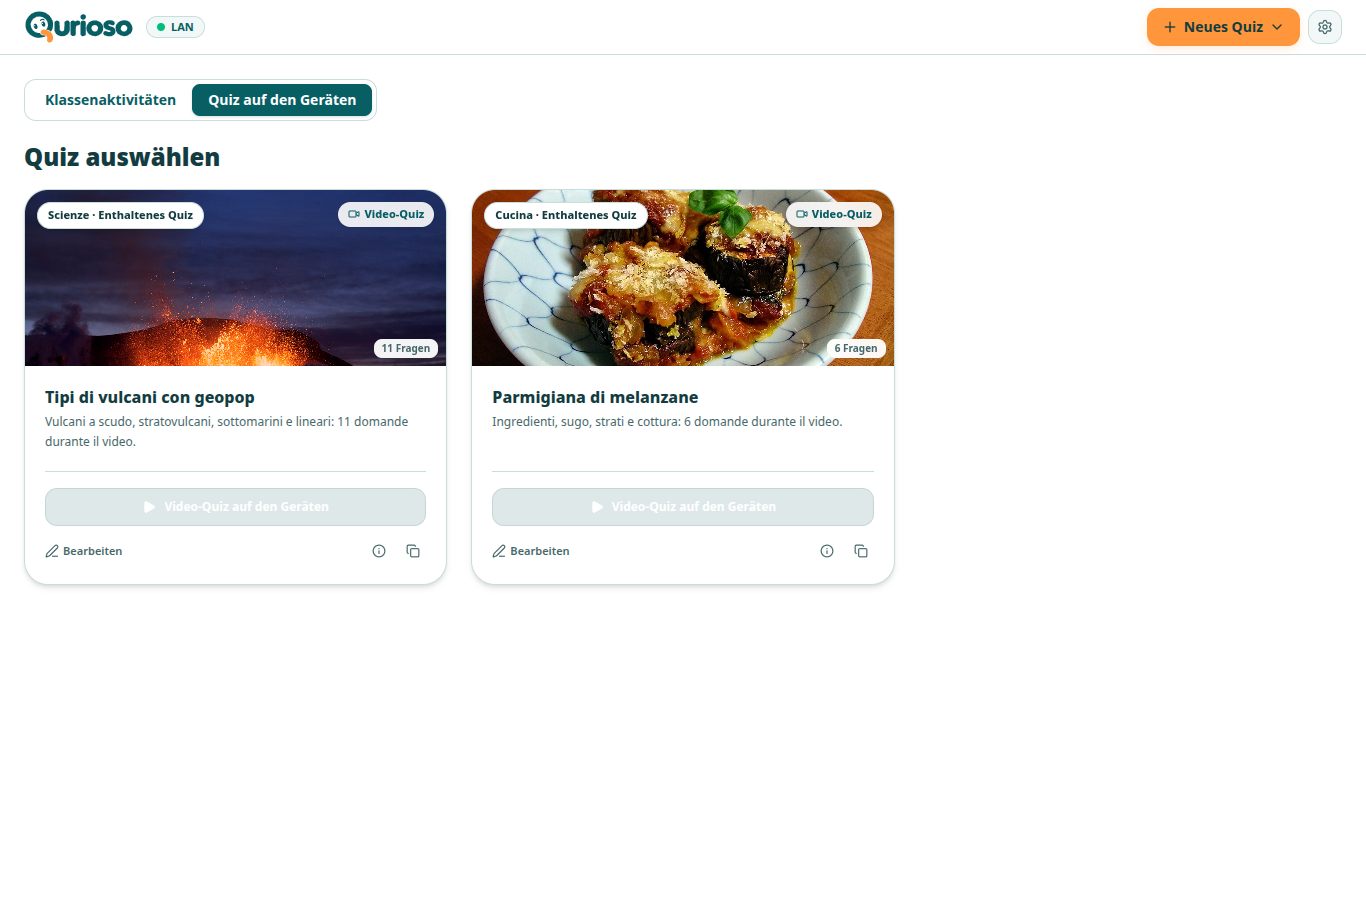
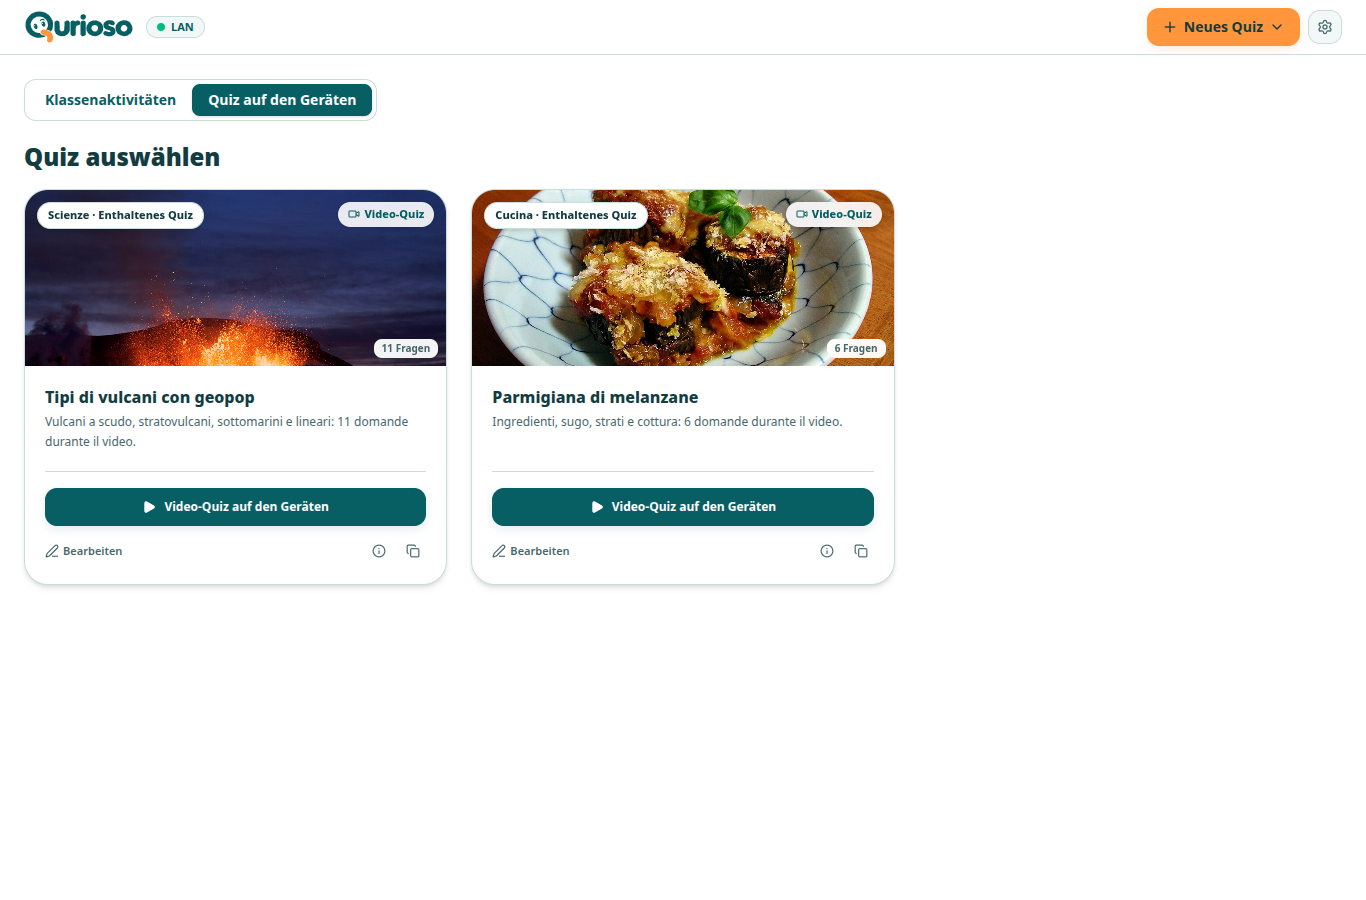
Capture guide screenshots without CSS transitions and drop a wrong known limit
A hidden window does not advance transitions, so the editor screenshot showed
Save in its first grey frame and suggested it was disabled. Saving a YouTube or
Vimeo quiz never waited for the video duration; a test now covers a provider
that never reports it.

Changed region(s): [[0.3382, 0.5289, 0.6457, 0.5911], [0.0307, 0.5289, 0.3075, 0.5911]]

diff --git a/tests/videoEditor.test.ts b/tests/videoEditor.test.ts
@@ -209,6 +209,28 @@ test('YouTube/Vimeo editor adapters capture provider time and explicitly disclos
   assert.equal(env.requests(), 0);
 });
 
+test('a YouTube quiz can be saved while the provider never reports its duration, for example offline', { timeout: 10000 }, async t => {
+  const env = browser(t), { dom } = env;
+  // The provider element exists but never loads: no loadedmetadata, no duration.
+  dom.window.customElements.define('youtube-video', class extends dom.window.HTMLElement { currentTime = 0; duration = NaN; async play() {} pause() {} });
+  const { createRoot } = await import('react-dom/client');
+  const { LanguageProvider } = await import('../src/context/LanguageContext');
+  const { QuizEditor } = await import('../src/components/builder/QuizEditor');
+  const root = createRoot(document.getElementById('app')!);
+  env.cleanup(async () => { await act(async () => root.unmount()); });
+  const quiz = editableVideoQuiz(structuredClone(DEFAULT_QUIZZES[0])); quiz.videoConfig = { ...quiz.videoConfig!, videoUrl: 'https://www.youtube.com/watch?v=M7lc1UVf-VE', videoType: 'youtube' };
+  let saved: Quiz | undefined;
+  await act(async () => root.render(React.createElement(LanguageProvider, null, React.createElement(QuizEditor, { initialQuiz: quiz, onSave: q => { saved = q; }, onCancel() {} }))));
+  const save = () => [...document.querySelectorAll('button')].find(b => b.textContent?.trim() === 'Salva quiz');
+  for (let n = 0; n < 100 && (!save() || save()!.disabled); n++) await act(async () => { await delay(10); });
+  assert.match(document.body.textContent!, /durata da verificare/);
+  assert.equal(save()!.disabled, false, 'Save waits for nothing the provider must report');
+  await act(async () => save()!.click());
+  for (let n = 0; n < 100 && !saved; n++) await act(async () => { await delay(10); });
+  assert.equal(saved!.videoConfig!.videoUrl, quiz.videoConfig.videoUrl);
+  assert.equal(env.requests(), 0);
+});
+
 test('missing local video can be relinked without losing questions/checkpoints; reference remains persistent after reopen', { timeout: 10000 }, async t => {
   const env = browser(t), { dom } = env;
   const { createRoot } = await import('react-dom/client'); const { LanguageProvider } = await import('../src/context/LanguageContext');

diff --git a/docs/releases/v1.4.0.md b/docs/releases/v1.4.0.md
@@ -11,8 +11,6 @@ This update adds cloud sync and reworks the interface so that each button says w
 - **Fix:** the desktop app could show a blank page when reopening a page it had already loaded.
 - **Privacy:** the privacy policy is at https://qurioso.it/privacy.html.
 
-Known limit: while the duration of a YouTube or Vimeo video is still unknown, for example offline, the editor keeps Save disabled for video quizzes.
-
 Validation: TypeScript checks, 155 automated tests, production web/server builds and the desktop smoke test passed. Cloud sign-in was tested manually in the Linux desktop app; sign-in on the website and sync between two devices are still to be tested with real accounts.
 
 Cloudflare sharing remains optional and experimental. Desktop installers and the experimental Android APK are built by GitHub Actions. Windows and macOS runtime acceptance testing remains separate from CI packaging.
